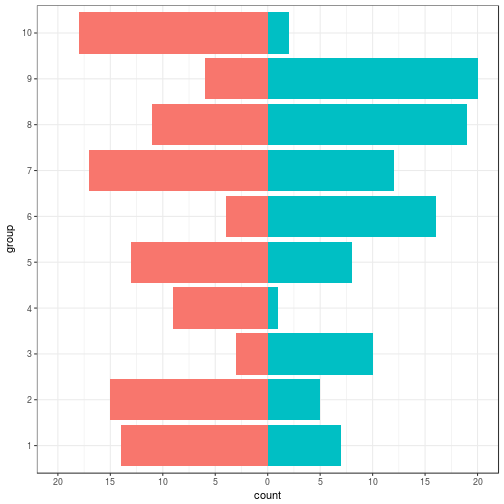
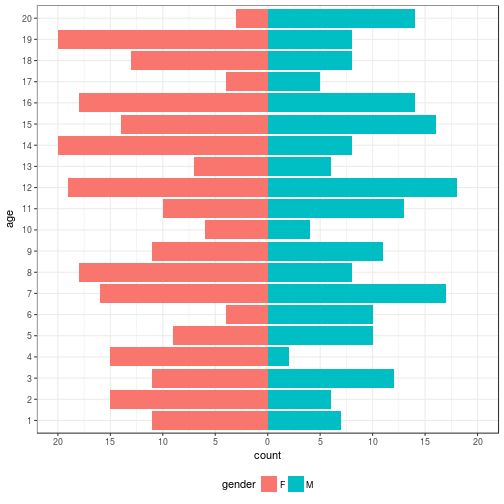
update population pyramid bars

Changed region(s): [[0.0298, 0.0, 1.0, 1.0], [0.0, 0.4167, 0.0298, 0.506], [0.0298, 0.1488, 0.0595, 0.1786]]

diff --git a/population_pyramid_bars.md b/population_pyramid_bars.md
@@ -14,43 +14,63 @@ Create data frame with columns for age group, gender, and count:
 
 ```r
 set.seed(100)
-df <- data.frame(count=sample(1:20,20), gender=c(rep('M',10),rep('F',10)), group=factor(rep(1:10,2)))
+df <- data.frame(count=sample(1:20,40,replace=TRUE), gender=c(rep('M',20),rep('F',20)), age=factor(rep(1:20,2)))
 df
 ```
 
 ```
-##    count gender group
-## 1      7      M     1
-## 2      5      M     2
-## 3     10      M     3
-## 4      1      M     4
-## 5      8      M     5
-## 6     16      M     6
-## 7     12      M     7
-## 8     19      M     8
-## 9     20      M     9
-## 10     2      M    10
-## 11    14      F     1
-## 12    15      F     2
-## 13     3      F     3
-## 14     9      F     4
-## 15    13      F     5
-## 16     4      F     6
-## 17    17      F     7
-## 18    11      F     8
-## 19     6      F     9
-## 20    18      F    10
+##    count gender age
+## 1      7      M   1
+## 2      6      M   2
+## 3     12      M   3
+## 4      2      M   4
+## 5     10      M   5
+## 6     10      M   6
+## 7     17      M   7
+## 8      8      M   8
+## 9     11      M   9
+## 10     4      M  10
+## 11    13      M  11
+## 12    18      M  12
+## 13     6      M  13
+## 14     8      M  14
+## 15    16      M  15
+## 16    14      M  16
+## 17     5      M  17
+## 18     8      M  18
+## 19     8      M  19
+## 20    14      M  20
+## 21    11      F   1
+## 22    15      F   2
+## 23    11      F   3
+## 24    15      F   4
+## 25     9      F   5
+## 26     4      F   6
+## 27    16      F   7
+## 28    18      F   8
+## 29    11      F   9
+## 30     6      F  10
+## 31    10      F  11
+## 32    19      F  12
+## 33     7      F  13
+## 34    20      F  14
+## 35    14      F  15
+## 36    18      F  16
+## 37     4      F  17
+## 38    13      F  18
+## 39    20      F  19
+## 40     3      F  20
 ```
 
 The trick for making bi-directional bars is to convert the counts of one gender to negative values and change the axis labels to postive values on both sides:
 
 ```r
-ggplot(data=df,aes(x=group, fill=gender)) +
+ggplot(data=df,aes(x=age, fill=gender)) +
   geom_bar(data=subset(df,gender=='M'),aes(y=count),stat="identity") +
   geom_bar(data=subset(df,gender=='F'),aes(y=-1*count),stat="identity") +
   coord_flip() +
   theme_bw() +
-  theme(legend.position="none") +
+  theme(legend.position="bottom") +
   scale_y_continuous(limits=c(-20,20),breaks=seq(-20,20,5),labels=abs(seq(-20,20,5)))
 ```
 
